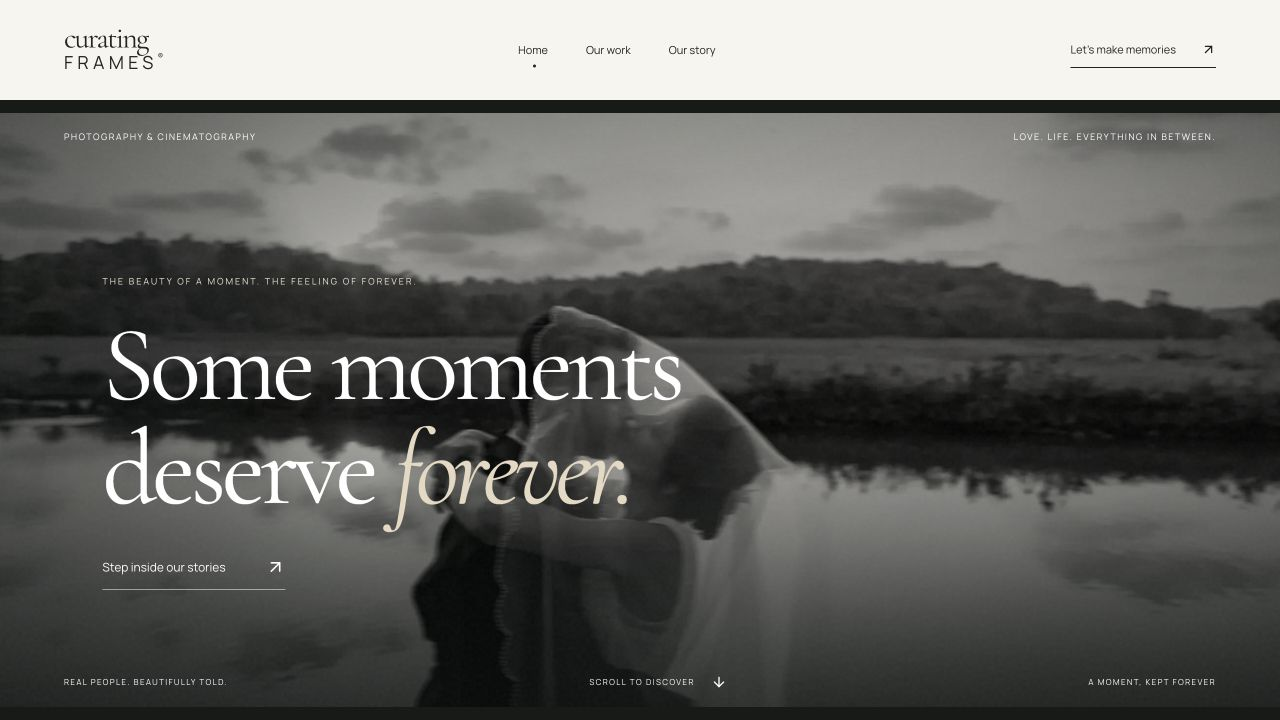
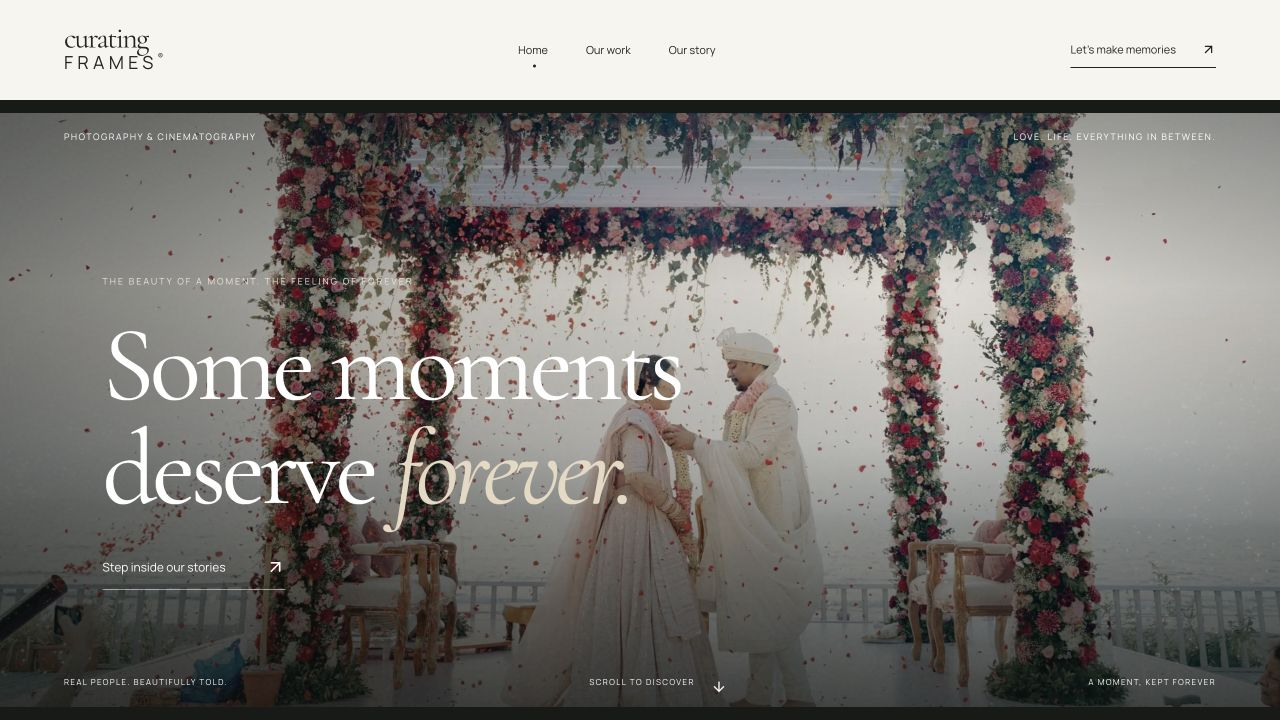
feat: feature original Drive wedding photography

diff --git a/app/page.tsx b/app/page.tsx
@@ -13,8 +13,8 @@ export default function Home() {
         <div className="hero-image-frame">
           <Image
             className="hero-photo"
-            src="/images/pdf-1-2.webp"
-            alt="A couple embracing beside still water in an intimate black and white photograph"
+            src="/images/pheras-318.webp"
+            alt="The bride and groom beneath a flower-covered mandap as rose petals fall around them"
             fill
             priority
             sizes="100vw"
@@ -97,8 +97,8 @@ export default function Home() {
       <section className="photo-essay">
         <div className="essay-photo">
           <Image
-            src="/images/pdf-1-5.webp"
-            alt="A bride in a flowing dress silhouetted by a sunlit window"
+            src="/images/pheras-138.webp"
+            alt="A black-and-white bridal portrait with flowers arranged in her hair"
             fill
             sizes="(max-width:700px) 100vw, 55vw"
           />

diff --git a/app/about/page.tsx b/app/about/page.tsx
@@ -20,8 +20,8 @@ export default function About() {
       <section className="about-story section">
         <div className="about-image">
           <Image
-            src="/images/pdf-1-3.webp"
-            alt="A couple sharing a smile in a timeless black and white portrait"
+            src="/images/pheras-213.webp"
+            alt="The bride in a delicate veil, photographed in soft warm light"
             fill
             priority
             sizes="(max-width:700px) 100vw, 50vw"

diff --git a/app/layout.tsx b/app/layout.tsx
@@ -35,7 +35,7 @@ export const metadata: Metadata = {
   openGraph: {
     type: "website",
     siteName: "Curating Frames",
-    images: [{ url: "/images/pdf-1-2.webp", width: 1200, height: 630 }],
+    images: [{ url: "/images/pheras-318.webp", width: 2400, height: 1714 }],
   },
 };
 export default function Layout({ children }: { children: React.ReactNode }) {

diff --git a/README.md b/README.md
@@ -1,6 +1,6 @@
 # Curating Frames
 
-An editorial photography website built in the existing project folder with Next.js App Router, React, strict TypeScript, Tailwind CSS, shadcn-style UI primitives, Radix Dialog, GSAP/ScrollTrigger and browser-native scrolling. All portfolio photographs are extracted from the client-provided PDF; no stock or reference-site photographs are used.
+An editorial photography website built in the existing project folder with Next.js App Router, React, strict TypeScript, Tailwind CSS, shadcn-style UI primitives, Radix Dialog, GSAP/ScrollTrigger and browser-native scrolling. Portfolio photographs come from the client-provided PDF and the explicitly shared Google Drive wedding folder; no stock or reference-site photographs are used.
 
 ## Run locally
 
@@ -18,11 +18,11 @@ Open http://127.0.0.1:3000. `npm run build` creates the production build; `npm s
 
 - `/`: cinematic homepage, featured collections and introduction
 - `/portfolio`: category filters and editorial project grid
-- `/portfolio/[slug]`: five stories, including Bani’s 1st Birthday and Pratik & Shubham
+- `/portfolio/[slug]`: six stories, including Bani’s 1st Birthday and Pratik & Shubham
 - `/about`, `/contact`, `/privacy`
 - sitemap, robots and a custom 404
 
-The two Pixieset projects link to their original galleries. Their imagery was not accessible, so no unrelated photographs are presented as those events. Three descriptive collections use the supplied PDF. Films is deliberately absent because no video files were supplied.
+The two Pixieset projects link to their original galleries. Their imagery was not accessible, so no unrelated photographs are presented as those events. The Pheras wedding collection uses eleven original Drive photographs. Three descriptive collections use the supplied PDF. Films is deliberately absent because no video files were supplied.
 
 ## Enquiries
 

diff --git a/docs/content-inventory.md b/docs/content-inventory.md
@@ -41,3 +41,11 @@ https://www.houseontheclouds.com/ was reviewed for large photography, sparse fra
 - Client videos; Films route/navigation remains absent.
 - Public domain, email provider credentials and CMS credentials.
 - Public-use approval for identifiable people in the supplied photographs. Client-provided media is used locally as requested; no public launch was performed.
+
+## Shared Drive update — 16 November 2026
+
+The user explicitly supplied the public folder `https://drive.google.com/drive/folders/1MIu8sMg3AvTO843Jv2rsgppDcZp1Xa95` and requested its photographs for the site. It is titled “4. Pheras”. Although no Drive connector is installed, the folder is accessible without sign-in through the browser. At least 100 photographs loaded while browsing; the folder was not exhaustively downloaded.
+
+Eleven original JPEGs were downloaded using Drive’s visible download controls: WEDDING-43, 89, 95, 138, 174, 185, 188, 213, 318, 329 and 337. Optimized WebP derivatives (maximum 2400 pixels) are served locally; full-resolution originals remain outside the public website. `docs/drive-assets.json` records source filenames, dimensions and resulting asset sizes. No thumbnail is used as a final site photograph.
+
+A new Pheras wedding story uses these photos, with its publication date set to the import date. This is not an asserted event date. Couple names and venue are unverified and omitted. The homepage hero, photographic essay, About image and social preview now use Drive originals. Existing PDF collections and Pixieset stories are preserved without attributing Drive photos to unrelated events. Native scrolling remains unchanged.

diff --git a/docs/qa.md b/docs/qa.md
@@ -17,3 +17,5 @@
 Limitations: no Lighthouse score claimed, no full device lab or screen-reader audit performed; no public deployment, real Resend delivery, Sanity dataset or protected Pixieset media tested. Basic honeypot is implemented; configure hosting-edge bot protection before enabling public email sending. See README for launch steps.
 
 Final browser recheck: completed enquiry with dummy data now returns the explicit unconfigured-provider message and confirms that nothing was sent. Tablet About page checked at 820×1180 with exact viewport/document width match. HTTP smoke checks confirmed 35 public route/image URLs return 200, and an unknown story returns 404. The homepage console was clean; the expected 503 on an unconfigured form is an intentional failure response, not a delivery claim.
+
+Drive photography update: eleven full-resolution originals downloaded using Drive’s normal download controls, optimized to local WebP derivatives, and added as a new Pheras wedding story. Production build, lint, strict typecheck and six tests pass. Desktop and 390px mobile homepage framing reviewed; no horizontal overflow. New wedding gallery and fullscreen viewer checked (11 photographs), all new image URLs and wedding route return HTTP 200. Homepage console has no errors or warnings. No scrolling code changed.
